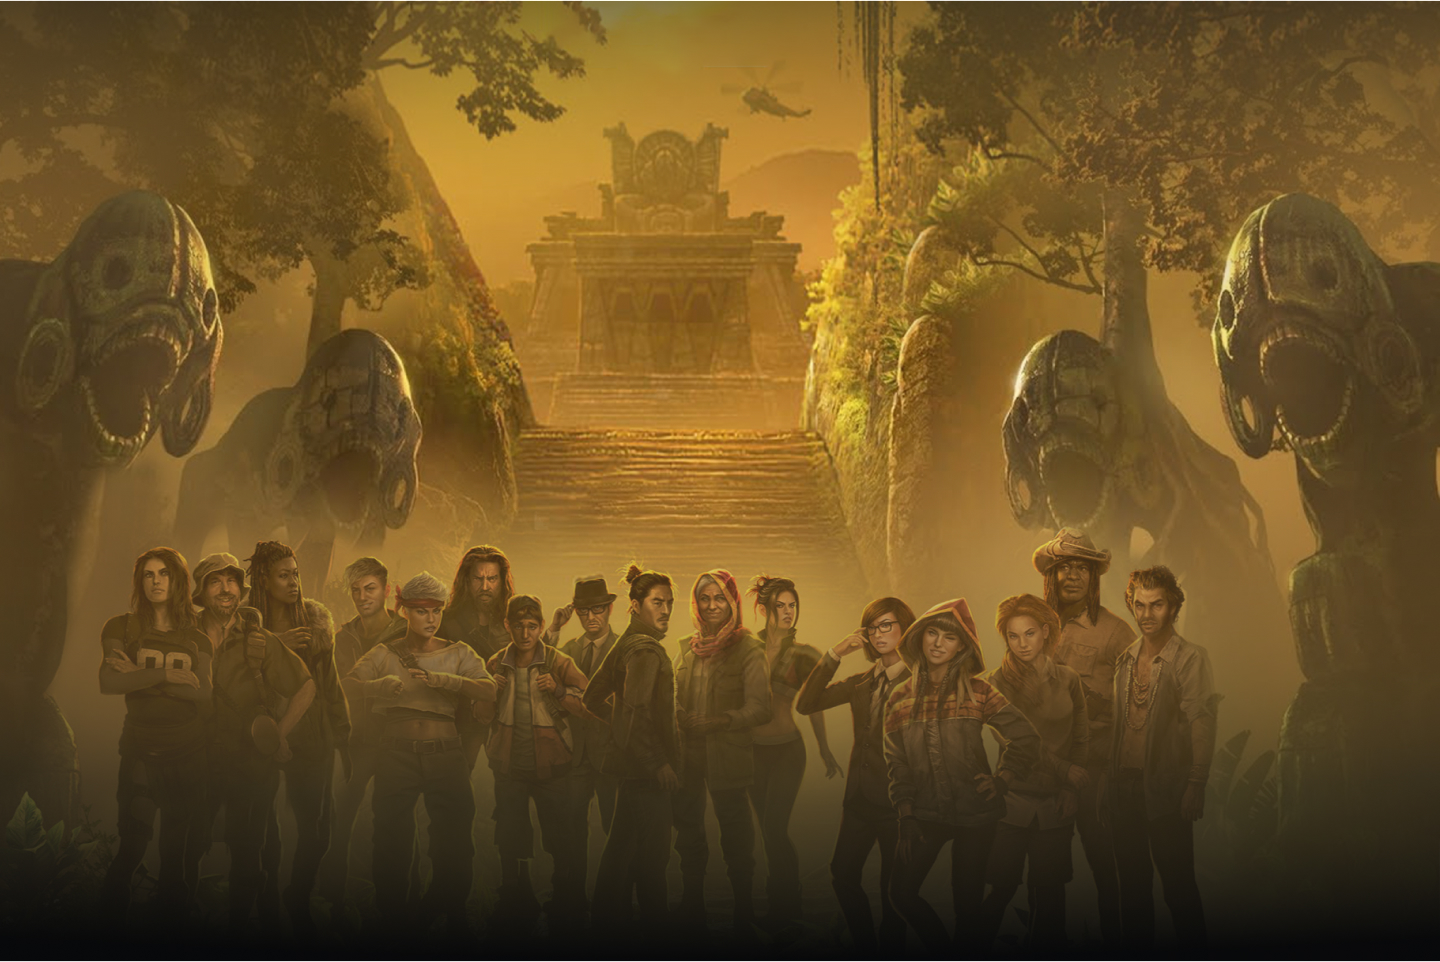
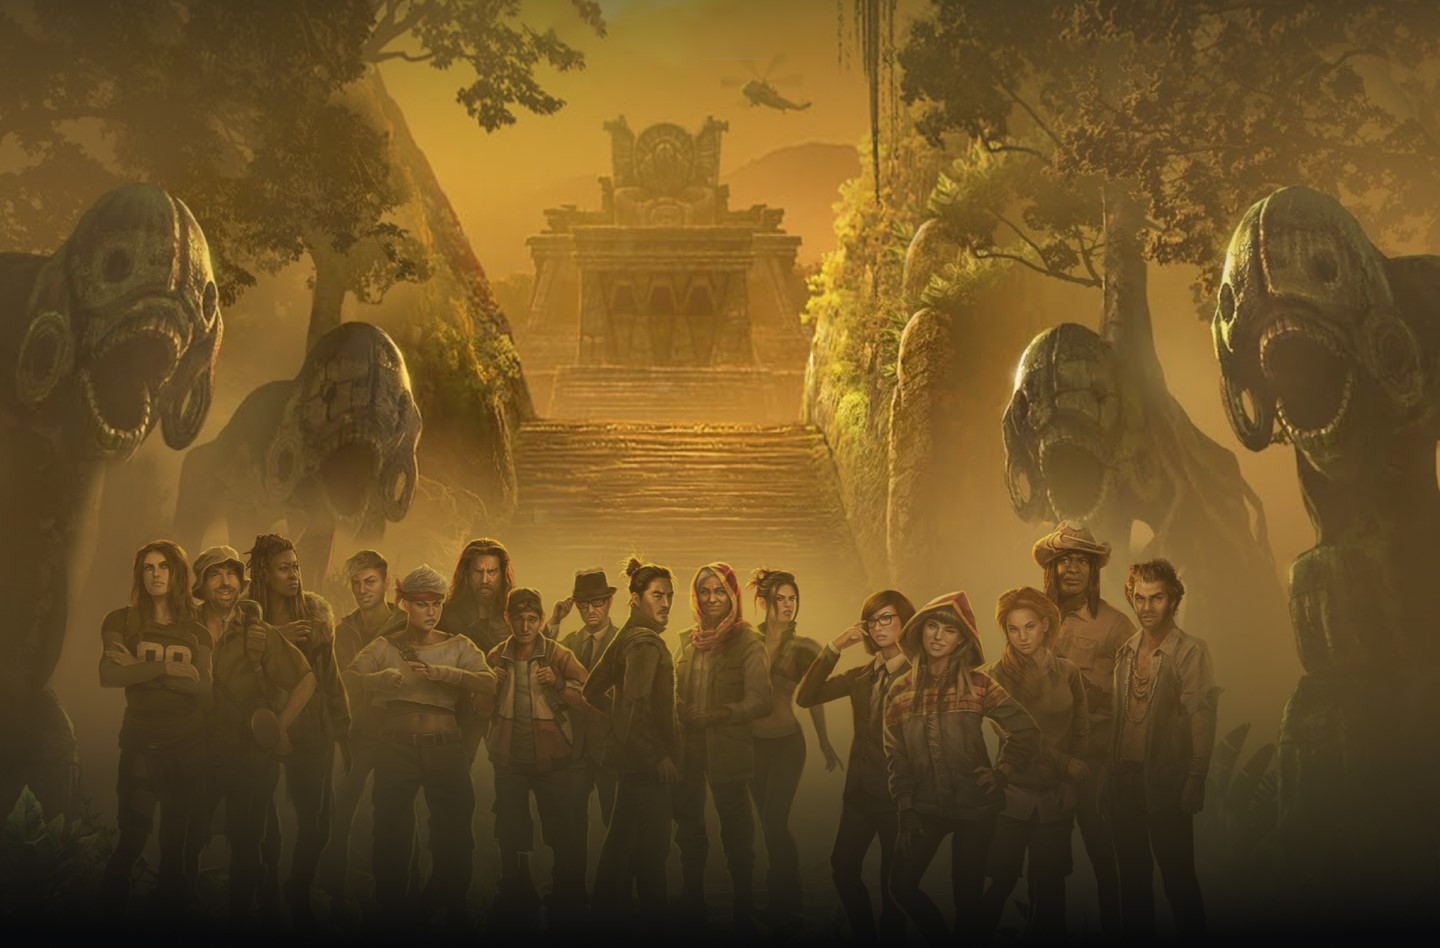
add about block

diff --git a/index.html b/index.html
@@ -35,21 +35,45 @@
               <img src="./assets/images/steam.svg" alt="Steam" />
             </div>
           </header>
-          <div class="preview__block">
-            <h1 class="preview__title">SURVIVE AT ALL COSTS</h1>
-            <h4 class="preview__subtitle">Experience new social battle royale game</h4>
-            <button class="preview__btn btn">
-              <span class="preview__btn-title">Buy Now on Steam</span>
-              <span class="preview__btn-price">$14.99</span>
-            </button>
+          <div class="preview__container">
+            <div class="preview__block">
+              <h1 class="preview__title">SURVIVE AT ALL COSTS</h1>
+              <h4 class="preview__subtitle">Experience new social battle royale game</h4>
+              <button class="preview__btn btn">
+                <span class="preview__btn-title">Buy Now on Steam</span>
+                <span class="preview__btn-price">$14.99</span>
+              </button>
+            </div>
+            <div class="preview__about">The story</div>
           </div>
-          <span class="preview__about">The story</span>
+        </div>
+      </div>
+
+      <div class="about">
+        <div class="about__container container">
+          <div class="about__info">
+            <h5 class="about__info-subtitle">What is SOS?</h5>
+            <h2 class="about__info-title">social battle royale game</h2>
+            <div class="about__text">
+              <p class="about__description">
+                Each round, you and 15 other contestants compete to escape a deadly island filled
+                with monsters. The trick is: three people can survive. Will you run solo or form
+                friendships with others to escape?
+              </p>
+              <p class="about__description">
+                Making the right decisions could be the difference between life and death.
+              </p>
+            </div>
+          </div>
+
+          <div class="about__slider">
+            <img src="./assets/images/about/1.jpg" alt="Фото игры" class="about__slider-img active" />
+            <img src="./assets/images/about/2.jpg" alt="Фото игры" class="about__slider-img noactive__one" />
+            <img src="./assets/images/about/3.jpg" alt="Фото игры" class="about__slider-img noactive__two" />
+            <img src="./assets/images/sliderArrow.svg" alt="Следующая картинка" class="about__slider-arrow">
+          </div>
         </div>
       </div>
     </main>
-
-    <footer class="footer">
-      <div class="container"></div>
-    </footer>
   </body>
 </html>

diff --git a/style/about.css b/style/about.css
@@ -1,0 +1,105 @@
+.about {
+  background-image: url('../assets/images/bg_2.jpg');
+  background-repeat: no-repeat;
+  background-size: cover;
+  background-position: top;
+}
+
+.about__container {
+  display: flex;
+  flex-direction: row;
+}
+
+.about__info {
+  display: flex;
+  flex-direction: column;
+  flex-basis: 50%;
+  margin-top: 250px;
+}
+
+.about__info-subtitle {
+  font-size: 24px;
+  letter-spacing: 2px;
+  font-weight: 400;
+  text-transform: uppercase;
+  margin: 0;
+  color: #fff;
+}
+
+.about__info-title {
+  max-width: 410px;
+  width: 100%;
+  text-transform: uppercase;
+  font-weight: 500;
+  letter-spacing: 3px;
+  font-size: 80px;
+  margin-top: 10px;
+  margin-bottom: 50px;
+  color: #fff;
+}
+
+.about__text {
+  display: flex;
+  flex-direction: column;
+  justify-content: flex-end;
+  margin-left: auto;
+  max-width: 370px;
+  width: 100%;
+}
+
+.about__description {
+  text-align: justify;
+  font-size: 18px;
+  margin: 0;
+  margin-bottom: 20px;
+  color: #fff;
+}
+
+.about__description:last-child {
+  margin-bottom: 0;
+}
+
+.about__slider {
+  position: relative;
+  display: flex;
+  flex-direction: row;
+  margin-top: 200px;
+  flex-basis: 50%;
+  margin-left: 30px;
+}
+
+.about__slider-img {
+  border-radius: 7px;
+  width: 100%;
+  height: 100%;
+  max-width: 500px;
+  max-height: 610px;
+  box-shadow: 0px 5px 17px 2px rgba(34, 60, 80, 0.2);
+}
+
+.about__slider-img.active {
+  z-index: 100;
+}
+
+.about__slider-img.noactive__one {
+  position: absolute;
+  scale: .95;
+  top: 0;
+  left: 50px;
+  z-index: 1;
+}
+
+.about__slider-img.noactive__two {
+  position: absolute;
+  scale: .9;
+  top: 0;
+  left: 100px;
+  z-index: 0; 
+}
+
+.about__slider-arrow {
+  position: absolute;
+  top: 290px;
+  right: 180px;
+}
+

diff --git a/style/preview.css b/style/preview.css
@@ -2,7 +2,15 @@
   background-image: url('../assets/images/bg_1.jpg');
   background-repeat: no-repeat;
   background-size: cover;
-  background-position: center;
+  background-position: bottom;
+}
+
+.preview__container {
+  display: flex;
+  flex-direction: column;
+  align-items: center;
+  justify-content: space-around;
+  height: 100%;
 }
 
 .preview__block {
@@ -10,7 +18,7 @@
   flex-direction: column;
   justify-content: center;
   align-items: center;
-  margin: 250px auto 0;
+  margin: 0 auto;
   width: 100%;
   max-width: 700px;
 }
@@ -57,7 +65,7 @@
   display: flex;
   justify-content: center;
   align-items: center;
-  margin: 350px auto 0;
+  margin: 0 auto;
   text-transform: uppercase;
   width: 80px;
   font-weight: bold;

diff --git a/style/index.css b/style/index.css
@@ -1,6 +1,7 @@
 @import url('./header.css');
 @import url('./nav.css');
 @import url('./preview.css');
+@import url('./about.css');
 
 body {
   font-family: 'Open Sans', sans-serif;
